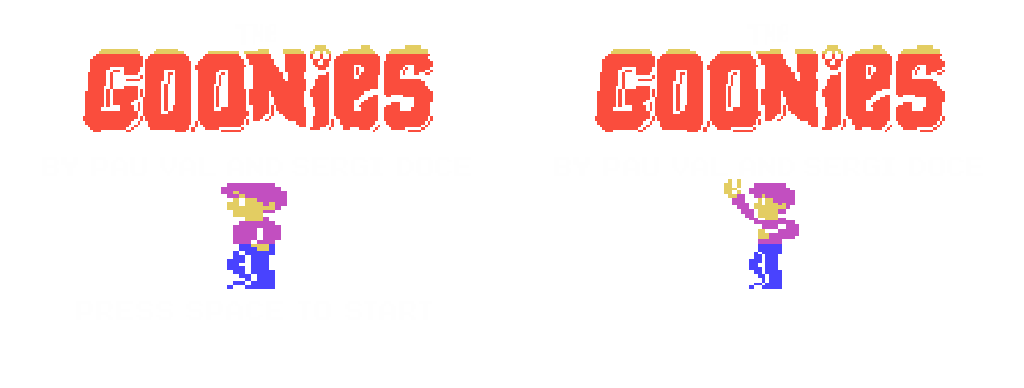
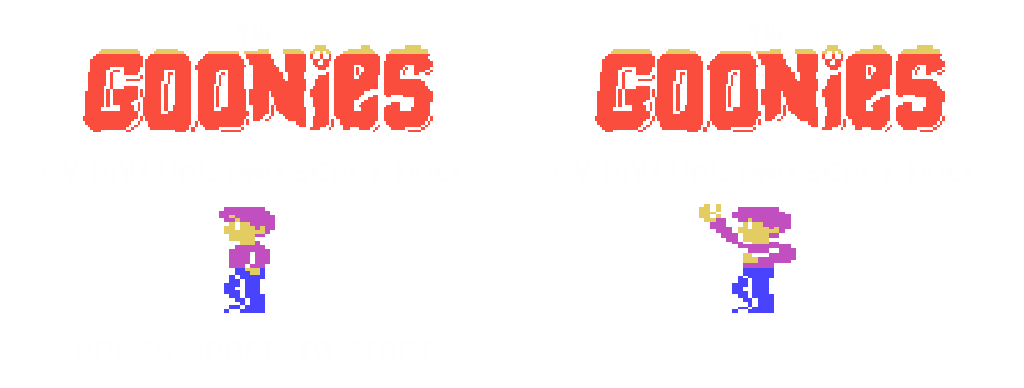
Added Start Screen

Changed region(s): [[0.6562, 0.4639, 0.7812, 0.8041], [0.2188, 0.4639, 0.2812, 0.8041]]

diff --git a/The Goonies/Game.cpp b/The Goonies/Game.cpp
@@ -9,6 +9,7 @@
 #include "OrangeScene.h"
 #include "GameOver.h"
 #include "TheEnd.h"
+#include "Start.h"
 #include "SoundEngine.h"
 
 void Game::init()
@@ -21,10 +22,14 @@ void Game::init()
 	scenes.push(std::make_shared<PurpleScene>());
 	scenes.push(std::make_shared<OrangeScene>());
 	
-	currentScene = scenes.front();
+	currentScene = std::make_shared<Start>();
 	currentScene->init(&player);
 	SoundEngine::getInstance()->stopAllSounds();
 	SoundEngine::getInstance()->playMainTheme();
+}
+
+void Game::start() {
+	startBool = true;
 }
 
 void Game::nextScene() {
@@ -55,7 +60,12 @@ bool Game::update(int deltaTime)
 		}
 	}
 
-	if(next) {
+	if(startBool) {
+		startBool = false;
+		SoundEngine::getInstance()->playRescue();
+		currentScene = scenes.front();
+		currentScene->init(&player);
+	} else if(next) {
 		next = false;
 		SoundEngine::getInstance()->playPortal();
 		scenes.pop();

diff --git a/The Goonies/Start.cpp b/The Goonies/Start.cpp
@@ -10,7 +10,7 @@ void Start::init(Player* player) {
 	startTexture = Texture();
 	startTexture.loadFromFile("images/Start.png", TEXTURE_PIXEL_FORMAT_RGBA);
 	startTexture.setMagFilter(GL_NEAREST);
-	start = Sprite::createSprite(glm::vec2(SCREEN_WIDTH, SCREEN_HEIGHT), glm::vec2(0.5f, 1.f), &gameOverTexture, &texProgram);
+	start = Sprite::createSprite(glm::vec2(SCREEN_WIDTH, SCREEN_HEIGHT), glm::vec2(0.5f, 1.f), &startTexture, &texProgram);
 	start->setPosition(glm::vec2(0.f));
 
 	start->setNumberAnimations(1);
@@ -23,6 +23,9 @@ void Start::init(Player* player) {
 void Start::update(int deltaTime) {
 	currentTime += deltaTime;
 	start->update(deltaTime);
+
+	if(Game::instance().getKey(GLUT_KEY_SPACEBAR))
+		Game::instance().start();
 }
 
 void Start::render() {

diff --git a/The Goonies/Game.h b/The Goonies/Game.h
@@ -26,6 +26,7 @@ public:
 	}
 	
 	void init();
+	void start();
 	void gameOver();
 	void nextScene();
 	bool update(int deltaTime);
@@ -45,7 +46,7 @@ public:
 
 private:
 	int gameOverCooldown = 5000, theEndCooldown = 5000;
-	bool bPlay = true, next = false, restartGame = false, gameOverBool = false;
+	bool bPlay = true, next = false, restartGame = false, gameOverBool = false, startBool = false;
 	std::queue<std::shared_ptr<Scene>> scenes;
 	std::shared_ptr<Scene> currentScene;
 	Player player;

diff --git a/The Goonies/SoundEngine.cpp b/The Goonies/SoundEngine.cpp
@@ -27,7 +27,7 @@ SoundEngine::SoundEngine() {
 	gameOver = engine->addSoundSourceFromFile("sounds/GameOver.mp3");
 	theEnd = engine->addSoundSourceFromFile("sounds/TheEnd.mp3");
 	punch = engine->addSoundSourceFromFile("sounds/Punch.wav");
-	rescue = engine->addSoundSourceFromFile("sounds/Rescued.wav");
+	rescue = engine->addSoundSourceFromFile("sounds/Rescue.wav");
 
 	mainTheme->setDefaultVolume(0.6f);
 	jump->setDefaultVolume(0.35f);

diff --git a/The Goonies/Scene.h b/The Goonies/Scene.h
@@ -65,7 +65,7 @@ private:
 
 private:
 	int savedFriends = 0;
-	int prevF = false, prevUp = false;
+	bool prevF = false, prevUp = false;
 	Camera* camera;
 	GUI* gui;
 
